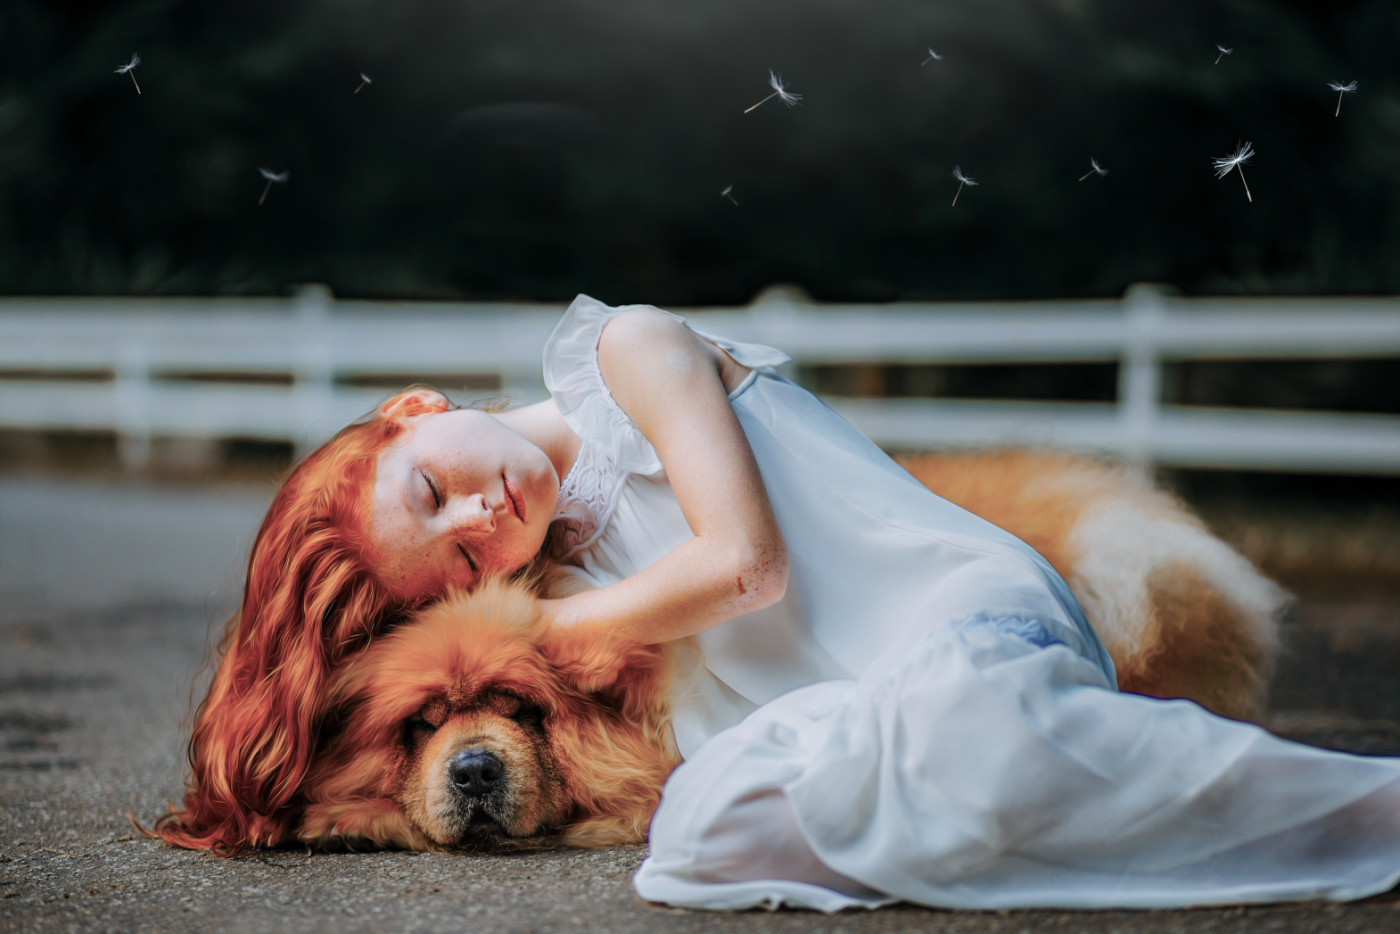
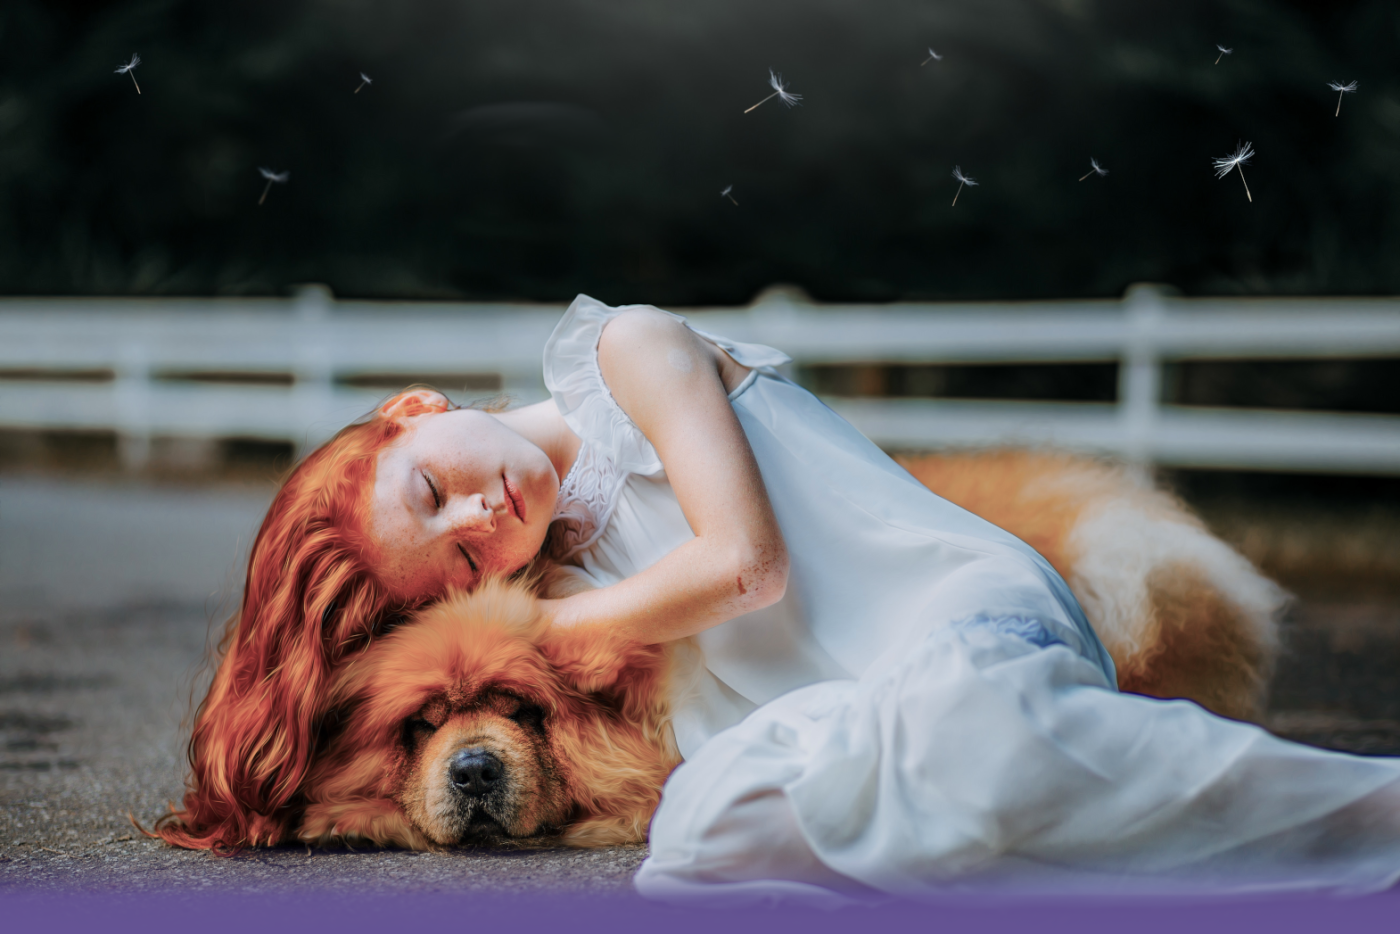
finished rough styling

Changed region(s): [[0.0, 0.9004, 1.0, 1.0]]

diff --git a/assets/css/landing_page/styles.scss b/assets/css/landing_page/styles.scss
@@ -48,6 +48,7 @@ body {
 header {
   position: sticky;
   top: 0;
+  z-index: 100;
 }
 .nav-bar {
   padding-top: 20px;
@@ -110,7 +111,7 @@ h2 {
 }
 .nav-links_showing {
   opacity: 1;
-  z-index: 10;
+  z-index: 100;
   transform: scale(1);
 }
 
@@ -155,13 +156,15 @@ h2 {
 }
 
 .container {
-  margin: 0px 0px 0px 0px;
+  margin: 0 auto;
   padding: 1.5rem;
+  background-color: lighten($color: #645394, $amount: 10);
 }
 .container_alternate {
   background-color: white;
   color: #333333;
 }
+
 .cta {
   padding: 3rem;
   display: grid;
@@ -183,13 +186,29 @@ h2 {
     }
   }
 }
-
+.main-overlay {
+  position: absolute;
+  top: 0px;
+  z-index: 0;
+  background: rgb(0, 0, 0);
+  background: linear-gradient(
+    180deg,
+    rgba(0, 0, 0, 0) 0%,
+    rgba(100, 83, 148, 1) 95%
+  );
+  & > img {
+    opacity: 0;
+  }
+}
 /* Breakpoints */
 @media only screen and (min-width: 481px) {
   .main {
     & > img {
       margin-top: -66px;
     }
+  }
+  .main-overlay {
+    margin-top: -66px;
   }
 }
 
@@ -204,12 +223,46 @@ h2 {
       margin-top: -145px;
     }
   }
+  .main-overlay {
+    margin-top: -145px;
+  }
+  .content_wrapper {
+    max-width: 85vw;
+    margin: 0 auto;
+    border-radius: 4px;
+    overflow: hidden;
+    margin-bottom: 60px;
+    box-shadow: 0px 0px 15px -3px #000000, 3px 3px 15px -3px #000000;
+  }
+  .container-wrapper {
+    display: grid;
+    grid-auto-flow: column;
+    gap: 80px;
+    justify-items: center;
+    align-items: center;
+
+    max-width: 95ch;
+  }
+  .container-wrapper_img {
+    grid-template-columns: 1fr 1fr;
+  }
+  .container-wrapper_alternate {
+    & > img {
+      order: 1;
+    }
+  }
 }
 
 @media only screen and (min-width: 1024px) {
+  .container {
+    font-size: 20px;
+  }
 }
 
 @media only screen and (min-width: 1300px) {
+  .container {
+    font-size: 25px;
+  }
 }
 @media only screen and (min-width: 1400px) {
   .main {
@@ -217,11 +270,17 @@ h2 {
       margin-top: -199px;
     }
   }
+  .main-overlay {
+    margin-top: -199px;
+  }
 }
 @media only screen and (min-width: 1600px) {
   .main {
     & > img {
       margin-top: -320px;
     }
+  }
+  .main-overlay {
+    margin-top: -320px;
   }
 }
